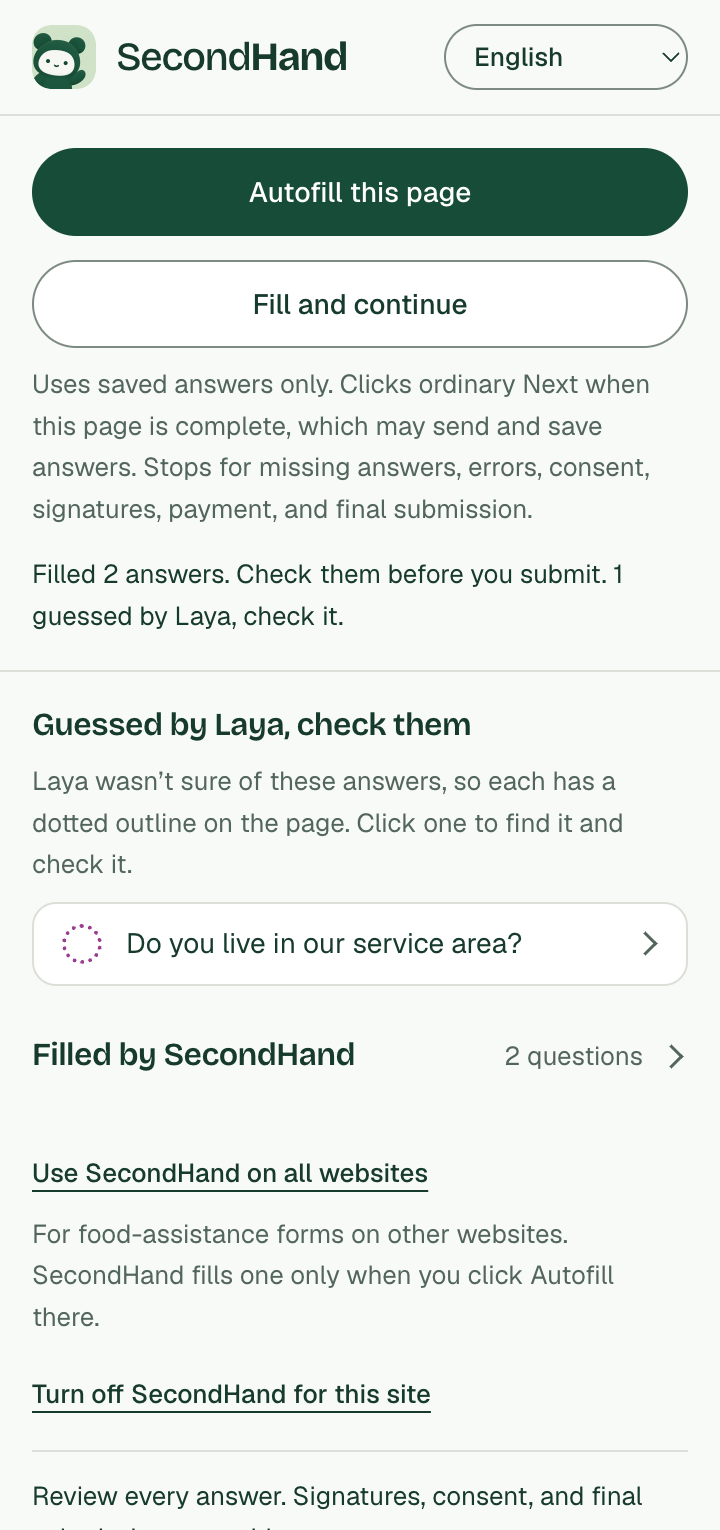
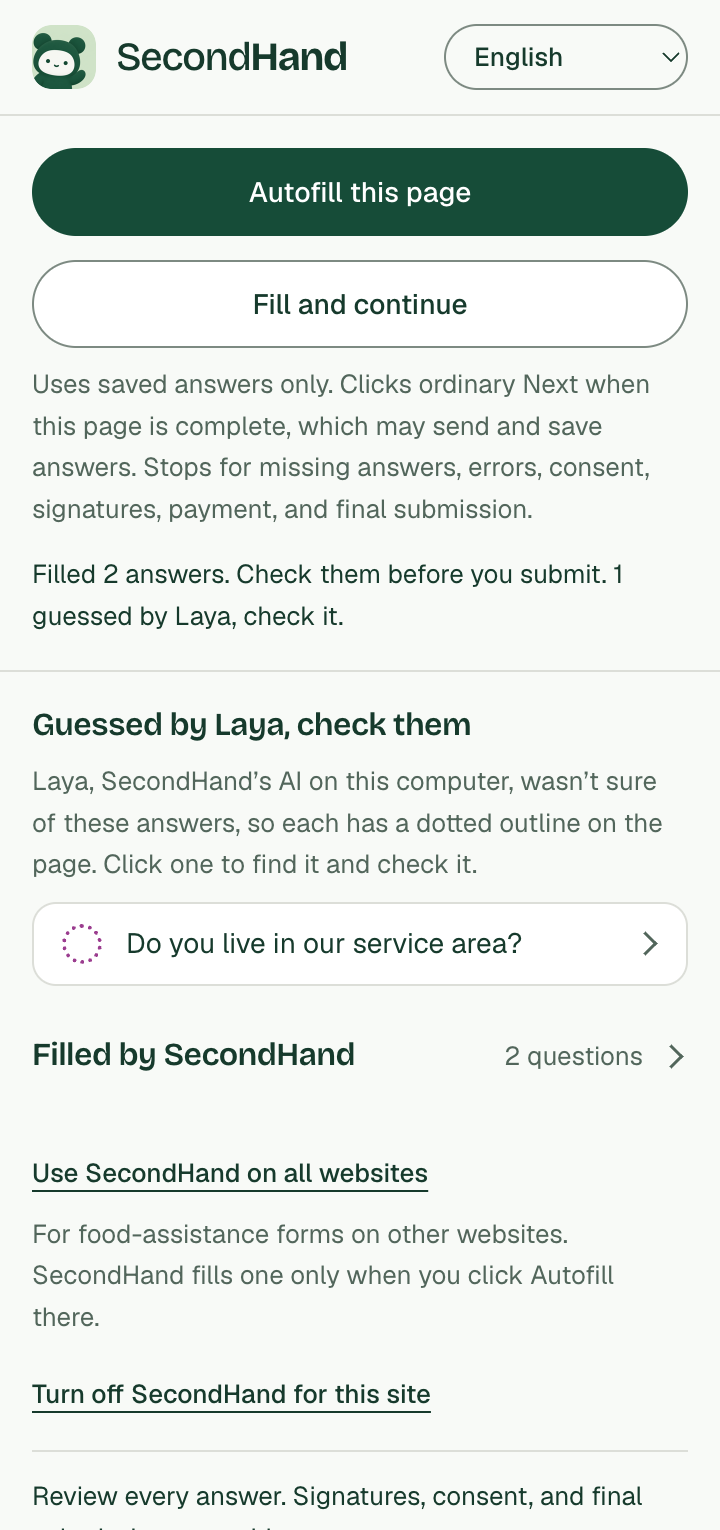
fix: say who Laya is where the side panel lists her guesses
A reviewer read "Laya" on the list of guessed answers and wondered whether a
person had seen their answers. The note now says "Laya, SecondHand's AI on this
computer", as the side panel's other lines about Laya do; Spanish writes out
"inteligencia artificial".

Changed region(s): [[0.0611, 0.4915, 0.9167, 0.5837]]

diff --git a/extension/strings.js b/extension/strings.js
@@ -258,7 +258,7 @@
     'held.fill': 'Fill sensitive details',
     'held.filling': 'Allow or cancel in the SecondHand app.',
     'guesses.title': 'Guessed by Laya, check them',
-    'guesses.hint': 'Laya wasn’t sure of these answers, so each has a dotted outline on the page. Click one to find it and check it.',
+    'guesses.hint': 'Laya, SecondHand’s AI on this computer, wasn’t sure of these answers, so each has a dotted outline on the page. Click one to find it and check it.',
     'guesses.rowLabel': 'Find Laya’s guess for “{label}” on the page',
     'checklist.rowLabel': '{label}: {status}. Go to this question.',
     'left.title': 'Left for you',
@@ -757,7 +757,7 @@
     'held.fill': 'Llenar datos sensibles',
     'held.filling': 'Permita o cancele en la aplicación SecondHand.',
     'guesses.title': 'Respuestas adivinadas por Laya, revíselas',
-    'guesses.hint': 'Laya no estaba segura de estas respuestas, así que cada una tiene un contorno punteado en la página. Haga clic en una para encontrarla y revisarla.',
+    'guesses.hint': 'Laya, la inteligencia artificial de SecondHand en esta computadora, no estaba segura de estas respuestas, así que cada una tiene un contorno punteado en la página. Haga clic en una para encontrarla y revisarla.',
     'guesses.rowLabel': 'Buscar en la página la respuesta que Laya adivinó para “{label}”',
     'checklist.rowLabel': '{label}: {status}. Ir a esta pregunta.',
     'left.title': 'Por contestar',
@@ -1253,7 +1253,7 @@
     'held.fill': 'Điền thông tin nhạy cảm',
     'held.filling': 'Hãy cho phép hoặc hủy trong ứng dụng SecondHand.',
     'guesses.title': 'Câu do Laya đoán, hãy kiểm tra',
-    'guesses.hint': 'Laya không chắc các câu trả lời này, nên mỗi câu có viền chấm trên trang. Bấm vào một câu để tìm và kiểm tra.',
+    'guesses.hint': 'Laya, AI của SecondHand trên máy này, không chắc các câu trả lời này, nên mỗi câu có viền chấm trên trang. Bấm vào một câu để tìm và kiểm tra.',
     'guesses.rowLabel': 'Tìm câu Laya đoán cho “{label}” trên trang',
     'checklist.rowLabel': '{label}: {status}. Đến câu hỏi này.',
     'left.title': 'Còn lại cho bạn',
@@ -1750,7 +1750,7 @@
     'held.fill': '填写敏感信息',
     'held.filling': '请在 SecondHand 应用中允许或取消。',
     'guesses.title': 'Laya 推测的答案，请检查',
-    'guesses.hint': 'Laya 对这些答案没有把握，因此每一项在页面上都有点状轮廓。点击一项即可找到并检查。',
+    'guesses.hint': 'Laya（SecondHand 在本机上的 AI）对这些答案没有把握，因此每一项在页面上都有点状轮廓。点击一项即可找到并检查。',
     'guesses.rowLabel': '在页面上查找 Laya 对“{label}”的推测',
     'checklist.rowLabel': '{label}：{status}。前往此问题。',
     'left.title': '留给您的问题',
@@ -2247,7 +2247,7 @@
     'held.fill': 'Remplir les informations sensibles',
     'held.filling': 'Autorisez ou annulez dans l’application SecondHand.',
     'guesses.title': 'Réponses devinées par Laya, à vérifier',
-    'guesses.hint': 'Laya a deviné ces réponses sans certitude : chacune a un contour en pointillés sur la page. Cliquez sur l’une d’elles pour la trouver et la vérifier.',
+    'guesses.hint': 'Laya, l’IA de SecondHand sur cet ordinateur, a deviné ces réponses sans certitude : chacune a un contour en pointillés sur la page. Cliquez sur l’une d’elles pour la trouver et la vérifier.',
     'guesses.rowLabel': 'Trouver sur la page la réponse devinée par Laya pour « {label} »',
     'checklist.rowLabel': '{label} : {status}. Aller à cette question.',
     'left.title': 'Il vous reste',
@@ -2744,7 +2744,7 @@
     'held.fill': 'تعبئة البيانات الحساسة',
     'held.filling': 'اسمح أو ألغِ في تطبيق SecondHand.',
     'guesses.title': 'إجابات خمّنها Laya، تحقق منها',
-    'guesses.hint': 'لم يكن Laya متأكدًا من هذه الإجابات، لذلك لكل منها إطار منقّط في الصفحة. انقر على إجابة للعثور عليها والتحقق منها.',
+    'guesses.hint': 'لم يكن Laya، الذكاء الاصطناعي الخاص بـ SecondHand على هذا الكمبيوتر، متأكدًا من هذه الإجابات، لذلك لكل منها إطار منقّط في الصفحة. انقر على إجابة للعثور عليها والتحقق منها.',
     'guesses.rowLabel': 'ابحث في الصفحة عن تخمين Laya لـ “{label}”',
     'checklist.rowLabel': '{label}: {status}. انتقل إلى هذا السؤال.',
     'left.title': 'المتبقي لك',
